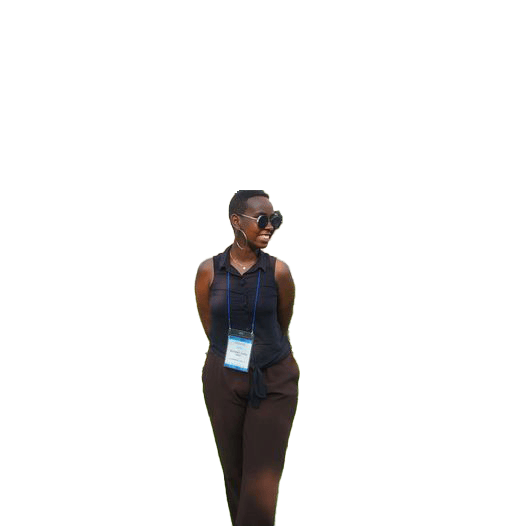
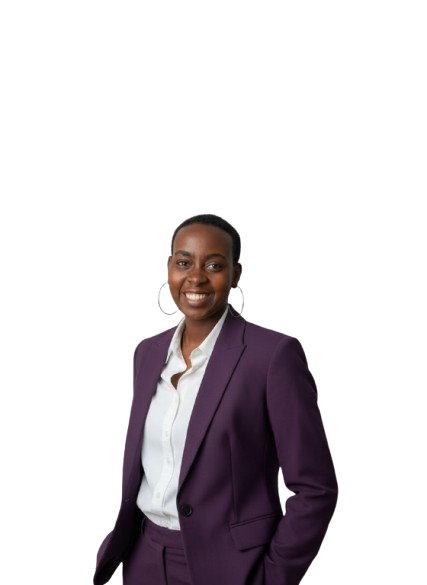
new

Changed region(s): [[0.2131, 0.3346, 0.7916, 1.0]]

diff --git a/index.html b/index.html
@@ -122,10 +122,10 @@
 
         <div class="portfolio__container bd-grid">
             <div class="portfolio__img">
-                <img src="assets/img/work1.jpg" alt="">
+                <img src="assets/img/Screenshot 2024-09-25 204500.png" alt="">
 
                 <div class="portfolio__link">
-                    <a href="#" class="portfolio__link-name">View details</a>
+                    <a href="https://prism-shop.vercel.app/" class="portfolio__link-name">PrismShop</a>
                 </div>
             </div>
             <div class="portfolio__img">
